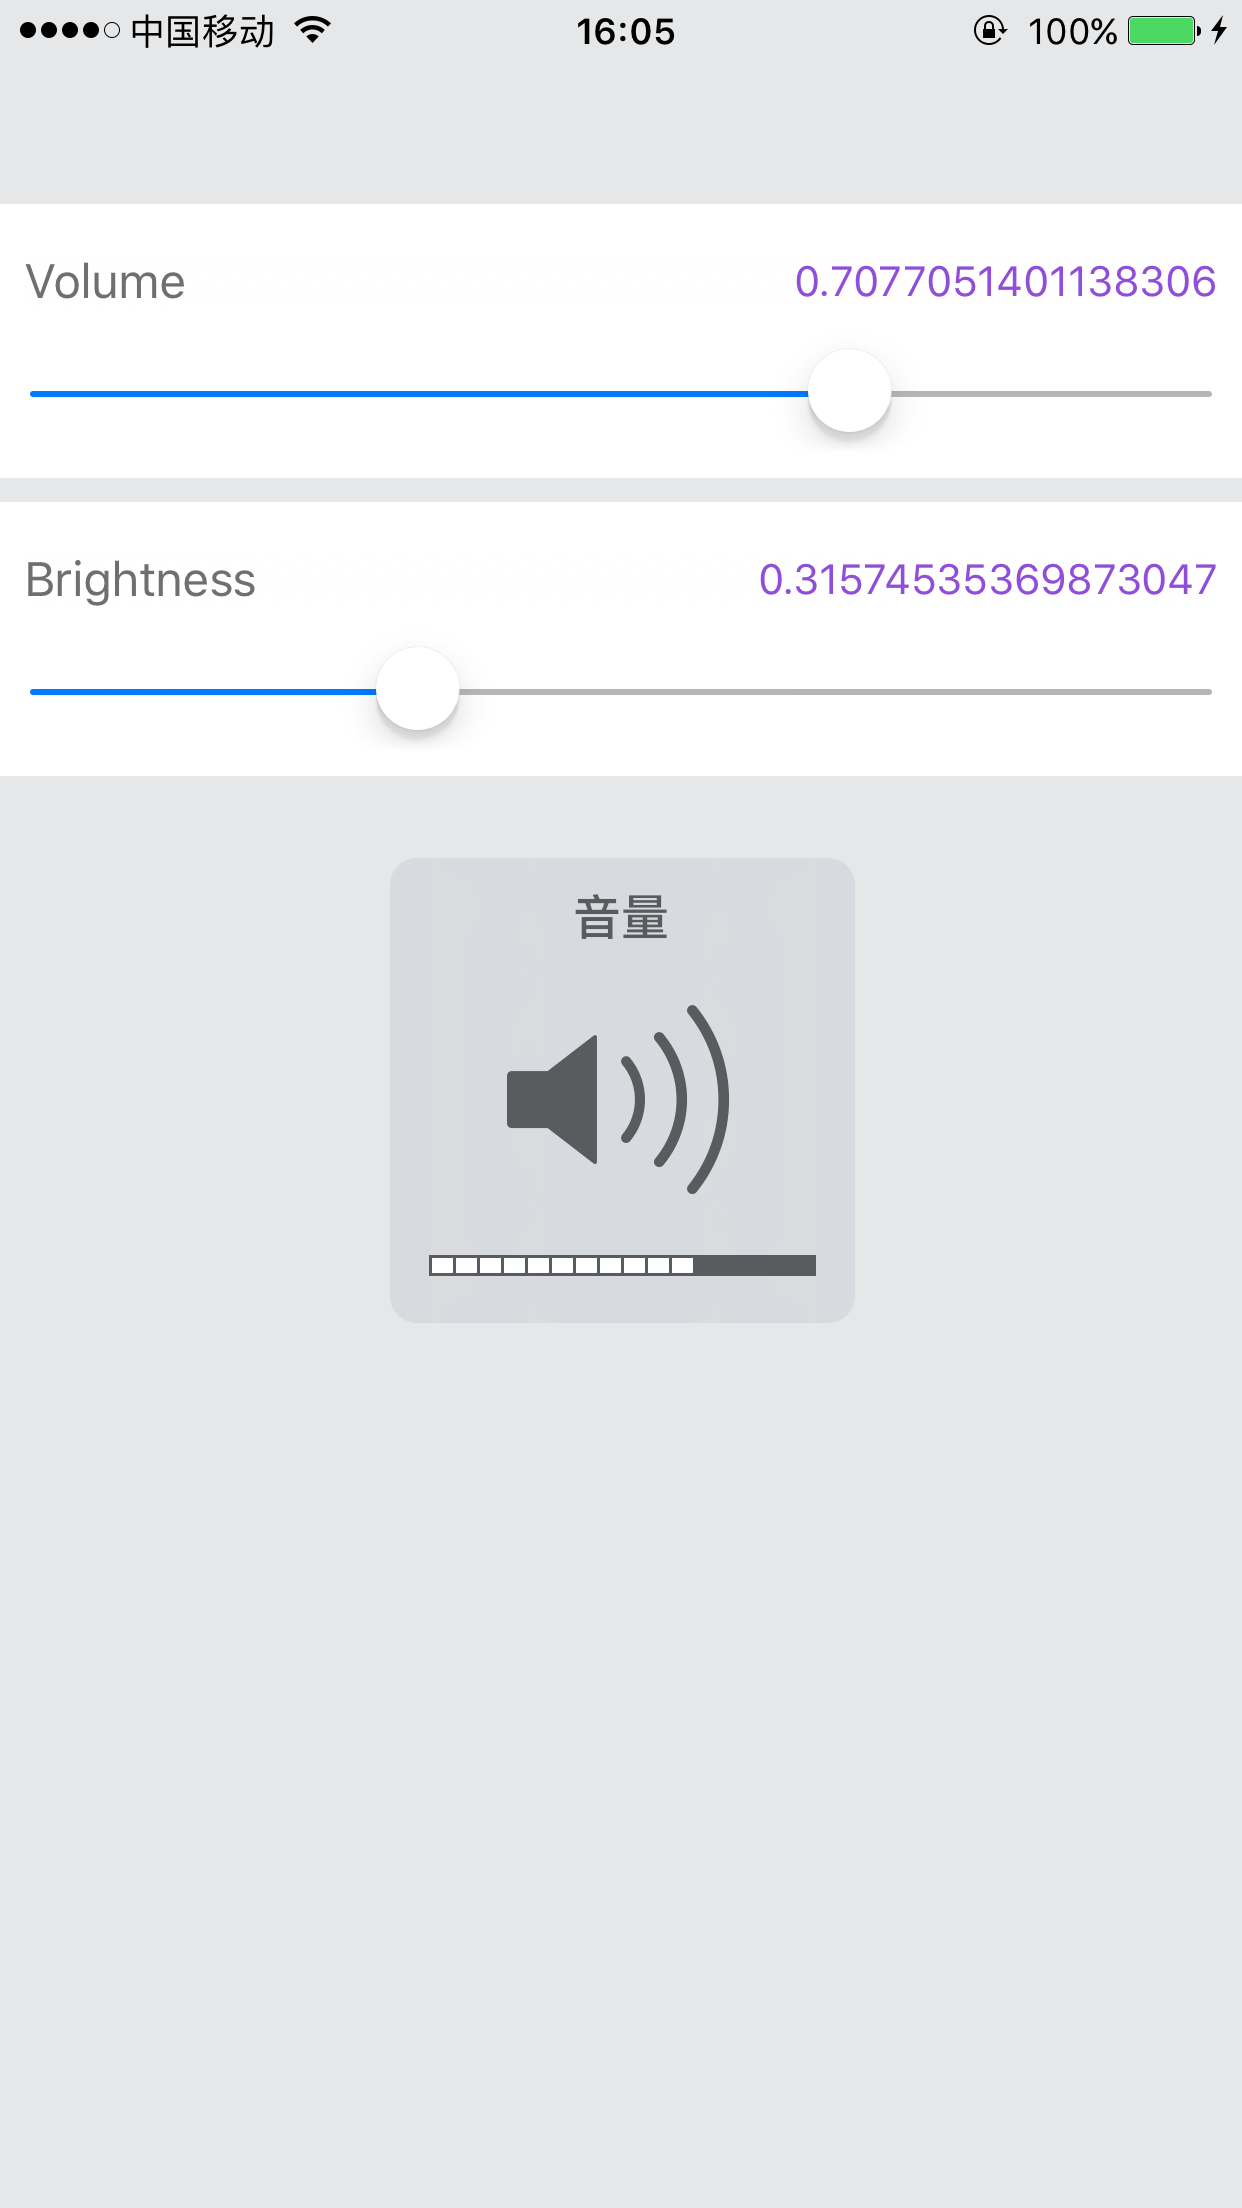
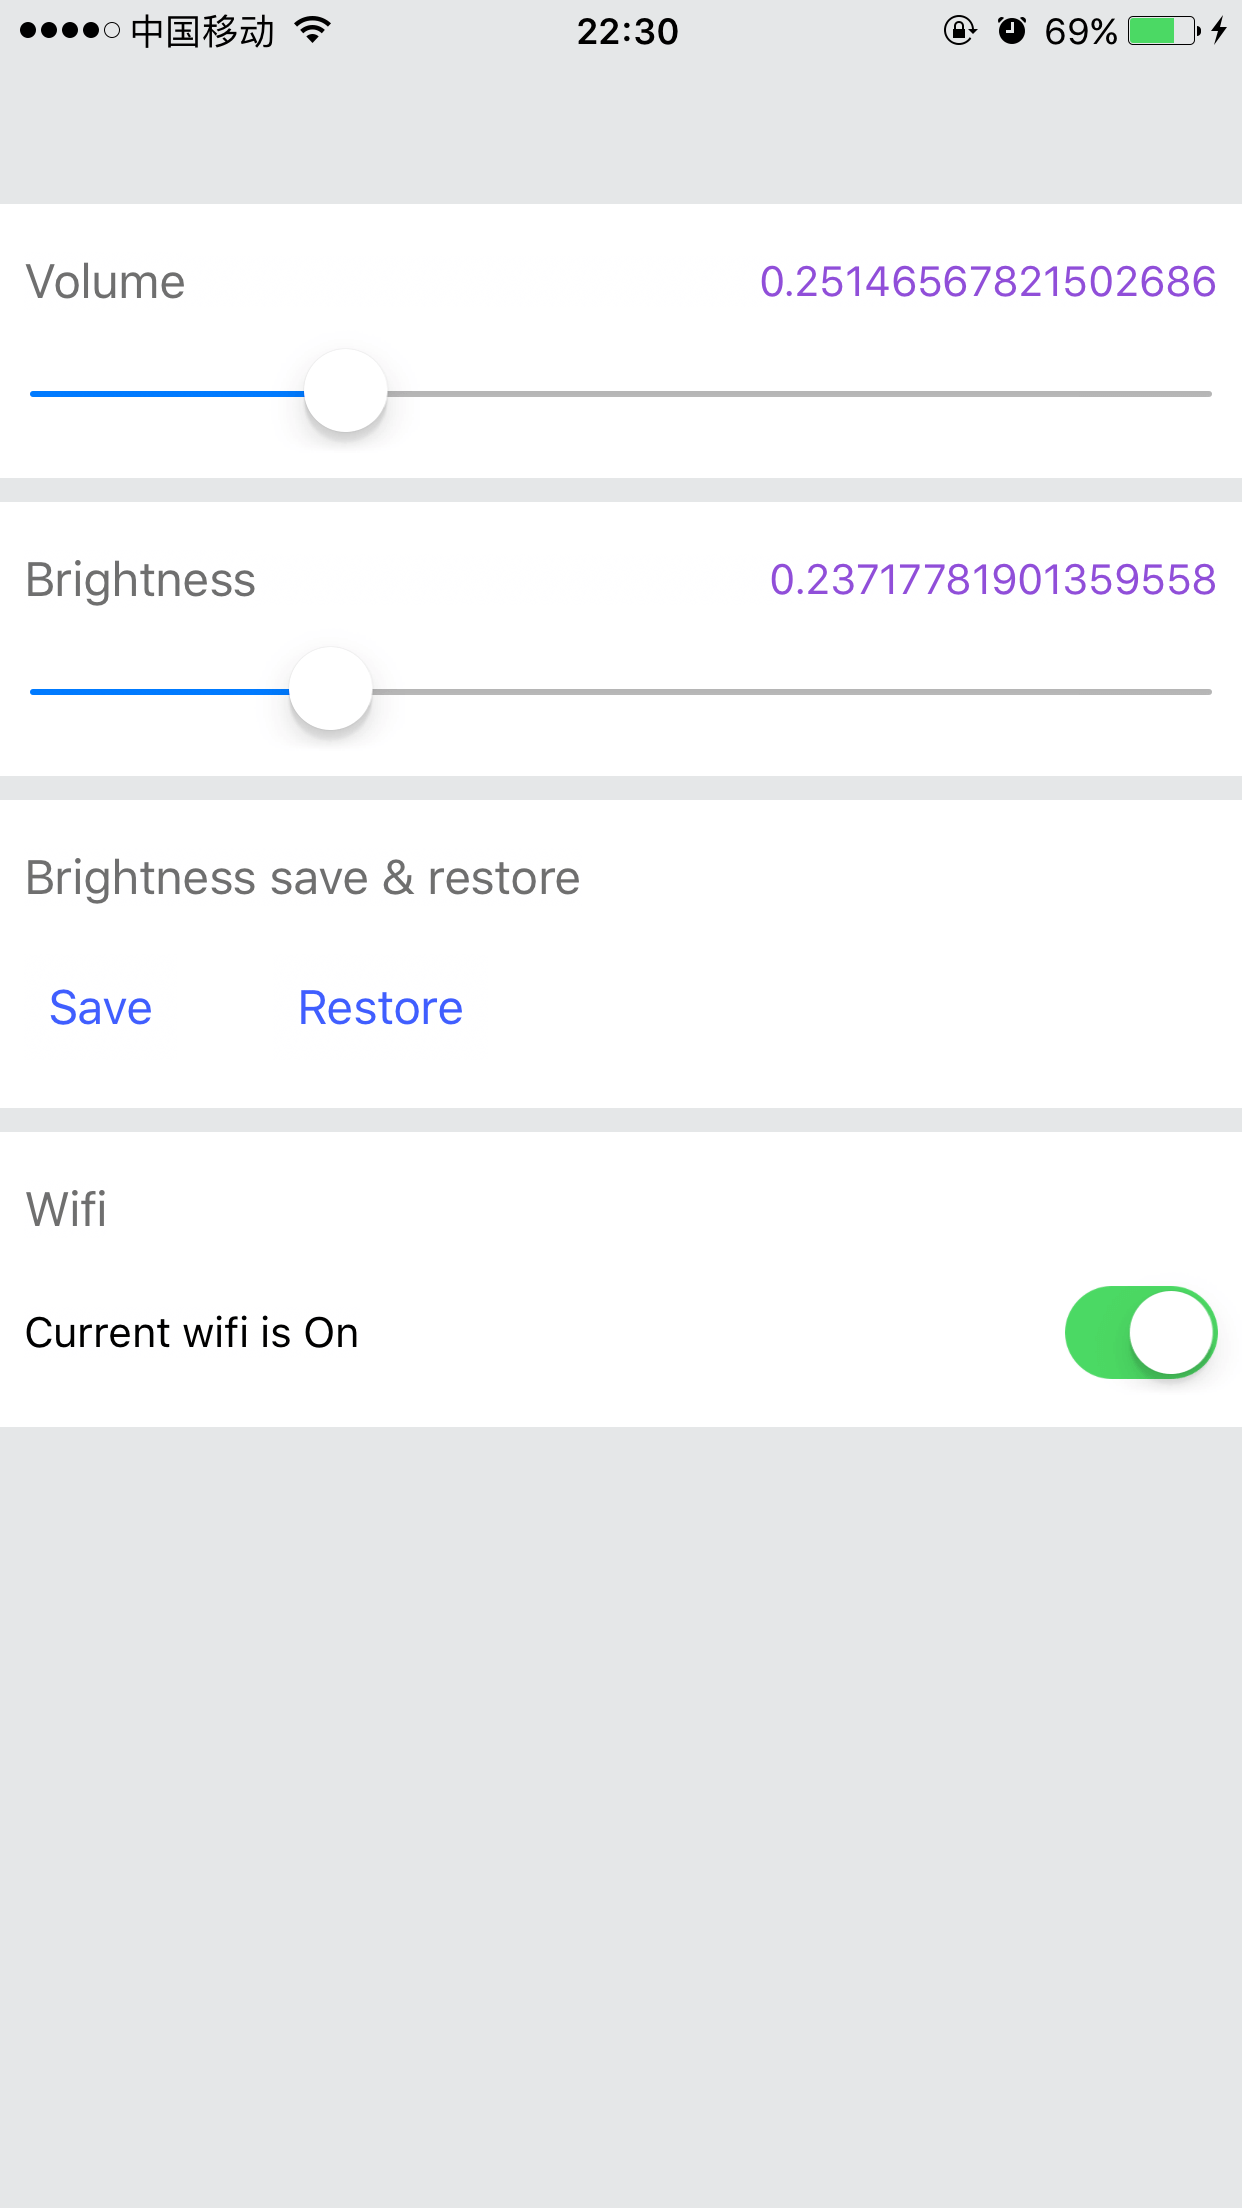
V1.0.4
support switching wifi

diff --git a/README.md b/README.md
@@ -5,6 +5,7 @@ It provides some system setting APIs for you. Support iOS and Android both.
 
 * Volume ( with listener)
 * Brightness
+* Wifi switch
 
 ### Next
 
@@ -163,11 +164,26 @@ It will save current brightness and screen mode.
 
 Restore brightness and screen mode back to saveBrightness(). While iOS only restore the brightness, Android will restore both. You should call this before setBrightness() or setBrightnessForce(). It will return the saved brightness.
 
+---
+ since 1.0.4
+
+`isWifiEnabled()`
+
+Get wifi state, true if wifi is on.
+
+`switchWifi(complete)`
+
+It will open wifi if the wifi is off, and close wifi when the wifi is on now. When it has done, the `complete` will be call.
+
 ## Run example
 
-```
+```shell
 cd example/SystemSettingExample
 npm install
+// if android
+react-native run-android
+// or ios
+react-native run-ios
 ```
 
 ## In the end

diff --git a/CHANGELOG.md b/CHANGELOG.md
@@ -1,3 +1,8 @@
+# V1.0.4
+**2017-06-16**
+
+support switching wifi state
+
 # V1.0.3
 **2017-06-05**
 
